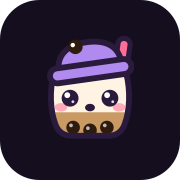
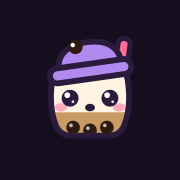
Deploy PWA verify fixes + merchant-strip consistency

diff --git a/pearl/app/index.html b/pearl/app/index.html
@@ -1820,7 +1820,6 @@
     var wtSteps = WT_CONSUMER;
     var wtIdx = -1;
     var wtActive = false;
-    var wtResume = false;
 
     function wtStrings() {
       wtskip.textContent = appLang === "zh" ? "跳过" : "Skip";
@@ -1862,6 +1861,18 @@
         wtalt.style.display = "none";
       }
       requestAnimationFrame(function () { wtSpotTo(s.target); });
+      // re-measure after the panel slide-in settles — measuring during the
+      // .34s slidein catches the 26px from-keyframe offset
+      var thisIdx = wtIdx;
+      setTimeout(function () {
+        if (wtActive && wtIdx === thisIdx) wtSpotTo(wtSteps[thisIdx].target);
+      }, 380);
+    }
+
+    function wtSyncInert() {
+      // the backdrop blocks pointers on guided steps; block keyboard too,
+      // or arrow keys swap the panel under a stale spotlight
+      tabsBar.inert = wtActive && wtIdx >= 0 && !wtSteps[wtIdx].free;
     }
 
     function wtGo(i) {
@@ -1869,6 +1880,7 @@
       var s = wtSteps[wtIdx];
       if (s.tab !== null && s.tab !== current) select(s.tab);
       wtRender();
+      wtSyncInert();
     }
 
     function wtStart(steps) {
@@ -1885,6 +1897,7 @@
       wtback.classList.remove("on");
       wtcard.classList.remove("on");
       wtspot.classList.add("hidden");
+      wtSyncInert();
       if (markDone) {
         try { localStorage.setItem("pearl-wt-done", "1"); } catch (e) {}
       }
@@ -1893,7 +1906,6 @@
     function wtAfterPass() {
       // resume the tour after the user's celebration ticket is dismissed
       if (wtActive && wtSteps === WT_CONSUMER && wtIdx === 2) {
-        wtResume = false;
         wtGo(3);
       }
     }

diff --git a/pearl/index.html b/pearl/index.html
@@ -1841,21 +1841,21 @@
 
   <section class="merchant">
     <h2>If it's your counter <span class="h2-zh" lang="zh-Hans">· 给老板的话</span></h2>
-    <p class="zh-sub" lang="zh-Hans">先卖出六杯，才送一杯 —— 送出那杯的店，迎来一位带着朋友的新客。</p>
+    <p class="zh-sub" lang="zh-Hans">送出的每一杯，PEARL 当场支付 —— 免费那杯，带着三杯付费一起进门。</p>
 
     <div class="card reveal">
       <div class="shop-grid">
         <div>
           <b>Who pays for the free drink?</b>
-          The shop that pours it — and behind every earned freebie are six
-          paid, stamped drinks, most poured at other counters. Boba comes four
-          friends deep: the free drink walks in with three paying ones.
+          PEARL — on the spot, by PayID, before the cup hits the counter. And
+          behind every freebie are six paid, stamped drinks, most poured at
+          other counters: the free drink walks in with paying friends.
         </div>
         <div>
           <b>What does it cost?</b>
-          Pilot shops pour free. After that, a flat weekly fee — never a
-          percentage of sales. Delivery apps take 25–30% of every order; this
-          is one drink's cost of goods per seven visits.
+          The pilot costs you nothing — PEARL pays you for every freebie
+          poured. Later, a flat weekly fee — never a percentage of sales.
+          Delivery apps take 25–30% of every order.
         </div>
         <div>
           <b>Whose customers?</b>

diff --git a/pearl/app/sw.js b/pearl/app/sw.js
@@ -1,6 +1,6 @@
 /* PEARL demo app — offline-first shell cache.
    Bump CACHE on every deploy that changes app files. */
-var CACHE = "pearl-app-v1";
+var CACHE = "pearl-app-v2";
 var ASSETS = [
   "./",
   "./index.html",
@@ -8,6 +8,7 @@ var ASSETS = [
   "./icon.svg",
   "./icon-192.png",
   "./icon-512.png",
+  "./icon-512-maskable.png",
   "./apple-touch-icon.png"
 ];
 
